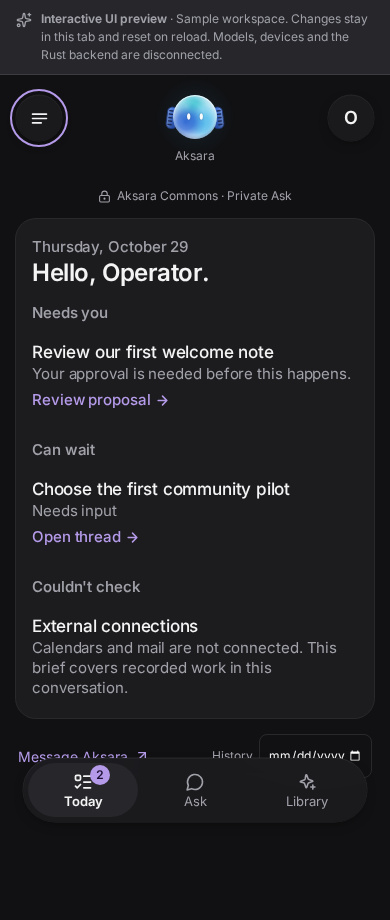
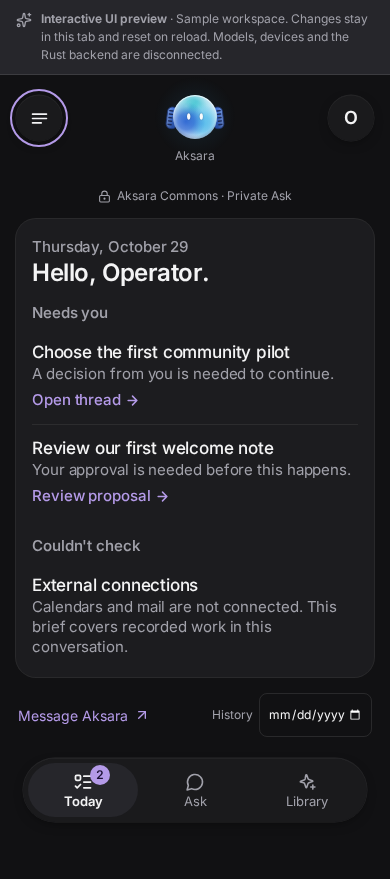
Keep Today attention rows consistent with its action badge

diff --git a/apps/platform/src/main.tsx b/apps/platform/src/main.tsx
@@ -571,23 +571,29 @@ function App() {
                     at ? "Recorded work" : `Hello, ${session.profile.name}.`
                   }
                   needsYou={visibleWorks
-                    .filter((w: Work) => w.state === "AWAITING_APPROVAL")
+                    .filter((w: Work) =>
+                      ["AWAITING_APPROVAL", "NEEDS_INPUT"].includes(w.state),
+                    )
                     .map((w: Work) => ({
                       id: w.id,
                       title: w.request,
-                      why: "Your approval is needed before this happens.",
+                      why:
+                        w.state === "AWAITING_APPROVAL"
+                          ? "Your approval is needed before this happens."
+                          : "A decision from you is needed to continue.",
                       action: at
                         ? undefined
                         : {
-                            label: "Review proposal",
-                            name: `Review ${w.request}`,
+                            label:
+                              w.state === "AWAITING_APPROVAL"
+                                ? "Review proposal"
+                                : "Open thread",
+                            name: `${w.state === "AWAITING_APPROVAL" ? "Review" : "Open"} ${w.request}`,
                             onPress: () => void openWork(w),
                           },
                     }))}
                   canWait={visibleWorks
-                    .filter((w: Work) =>
-                      ["HEARD", "WORKING", "NEEDS_INPUT"].includes(w.state),
-                    )
+                    .filter((w: Work) => ["HEARD", "WORKING"].includes(w.state))
                     .map((w: Work) => ({
                       id: w.id,
                       title: w.request,

diff --git a/deploy/pages/README.md b/deploy/pages/README.md
@@ -21,9 +21,8 @@ Thirteen browser checks passed both against a local static build and the public 
 
 For a live backend operational test, see `../test-host/README.md`. The current account rejected Containers with “Workers Paid plan required.” Container-local disk is not suitable as canonical persistent SQLite storage. No paid plan was enabled.
 
-The OpenDuet shell update is deployed at the same public URL. Deployment
-`1227edf8-7fa2-4a9b-ac9e-c9ddf662b59d` serves source revision
-`620b79a0343dfb7ab76f826bd3fa56c43a7eb5be`. All thirteen preview checks also
-passed against the public alias after deployment. See the
+The OpenDuet shell update is deployed at the same public URL. Its deployment
+metadata records the source revision. All thirteen preview checks passed against
+the public alias after deployment. See the
 [UI audit and screenshots](../../docs/platform/ui-audit.md) for source reuse,
 Taste v2 installation and documented visual exceptions.
